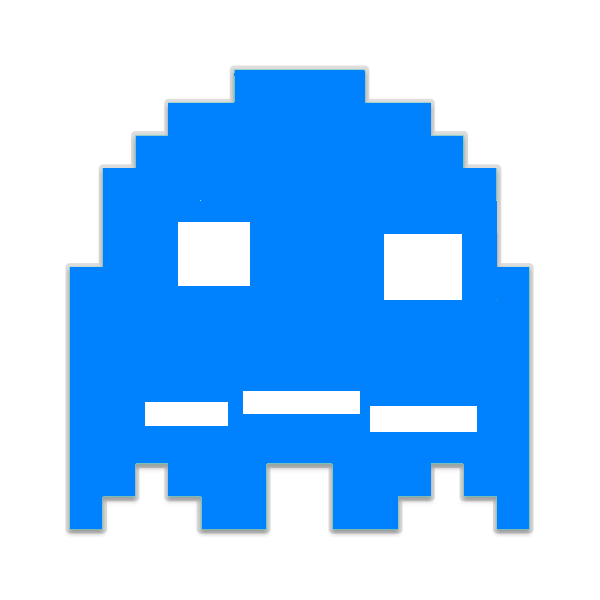
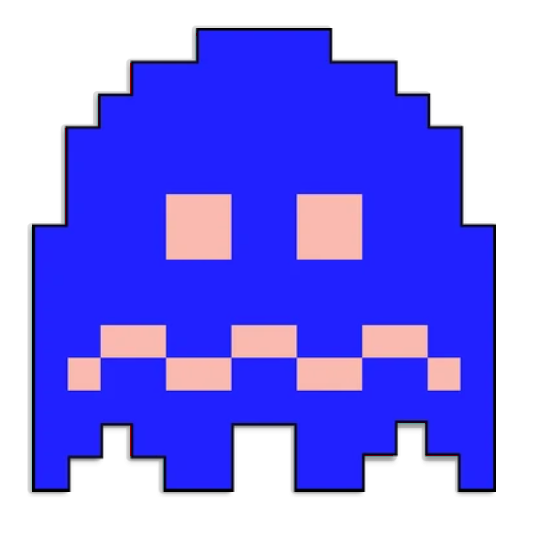
replace placeholder texture

diff --git a/README.md b/README.md
@@ -142,4 +142,5 @@ More about project management, including a project timeline and risk analysis, c
 
 
 <!--https://pngimg.com/image/73648
-https://www.pngmart.com/image/14728 -->
+https://www.pngmart.com/image/14728
+https://pacman.fandom.com/wiki/Vulnerable_Ghost -->
